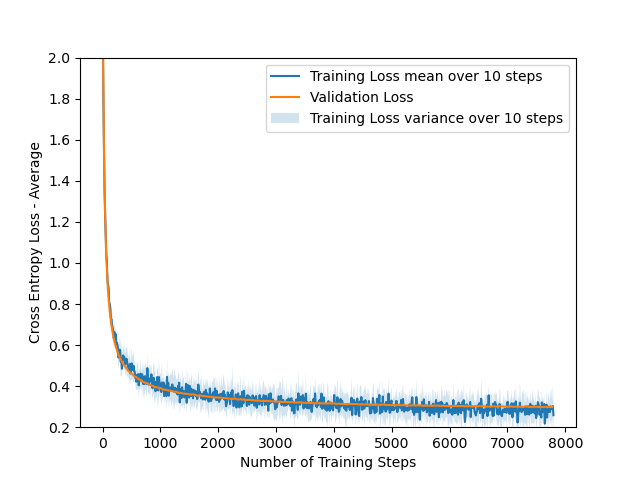
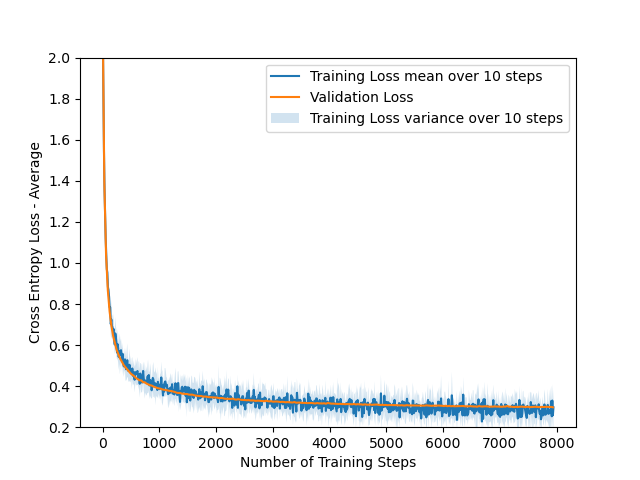
added some stuff

diff --git a/assignment1/task4b.py b/assignment1/task4b.py
@@ -16,7 +16,7 @@ import random
 
 
 
-def makingPrediction():
+def predictAndDisplay():  #This is just a test function that predicts a random handwritten number from the dataset.
 
     X_train, Y_train, X_val, Y_val = utils.load_full_mnist()
 
@@ -33,7 +33,6 @@ def makingPrediction():
 
     a = model.forward(image)
 
-    print(np.argmax(a))
 
     predicted = (np.argmax(a))
 
@@ -46,15 +45,13 @@ def makingPrediction():
     plt.show()
 
 
-def visualModeltraining():
-    X_train, Y_train, X_val, Y_val = utils.load_full_mnist()
-    #X_train = pre_process_images(X_train)
-    model = pickle.load(open('model_lambda_1.sav', 'rb'))
-    images = X_train[0:10]
+def visualModeltraining(): #This function generates an image from the weights
+    
+    model = pickle.load(open('model_lambda_1.sav', 'rb')) #Change this for different models.
     frame = np.zeros((28, 28 * 10))
     j = 0
     for i in range(0, 28 * 10, 28):
-        im = (model.w.T[j][:784])# * images[j]
+        im = (model.w.T[j][:784])
         frame[:28, i:i + 28] = im.reshape(28, 28)
         j += 1
     plt.imshow(frame)

diff --git a/assignment1/task3.py b/assignment1/task3.py
@@ -70,7 +70,7 @@ class SoftmaxTrainer(BaseTrainer):
 
 if __name__ == "__main__":
     # hyperparameters DO NOT CHANGE IF NOT SPECIFIED IN ASSIGNMENT TEXT
-    num_epochs = 50
+    num_epochs = 500
     learning_rate = 0.01
     batch_size = 128
     l2_reg_lambda = 0.01
@@ -179,7 +179,7 @@ if __name__ == "__main__":
     l2_lambdas = [str(1), str(0.1), str(0.01),str(0.001)]
     weights_normalized = []
     for w in weights: #Saved as an array during training above, one for each lambda.
-        weights_normalized.append(np.linalg.norm(w,2))
+        weights_normalized.append(np.linalg.norm(w))**2
     plt.bar(l2_lambdas[0], weights_normalized[0])
     plt.bar(l2_lambdas[1], weights_normalized[1])
     plt.bar(l2_lambdas[2], weights_normalized[2])
